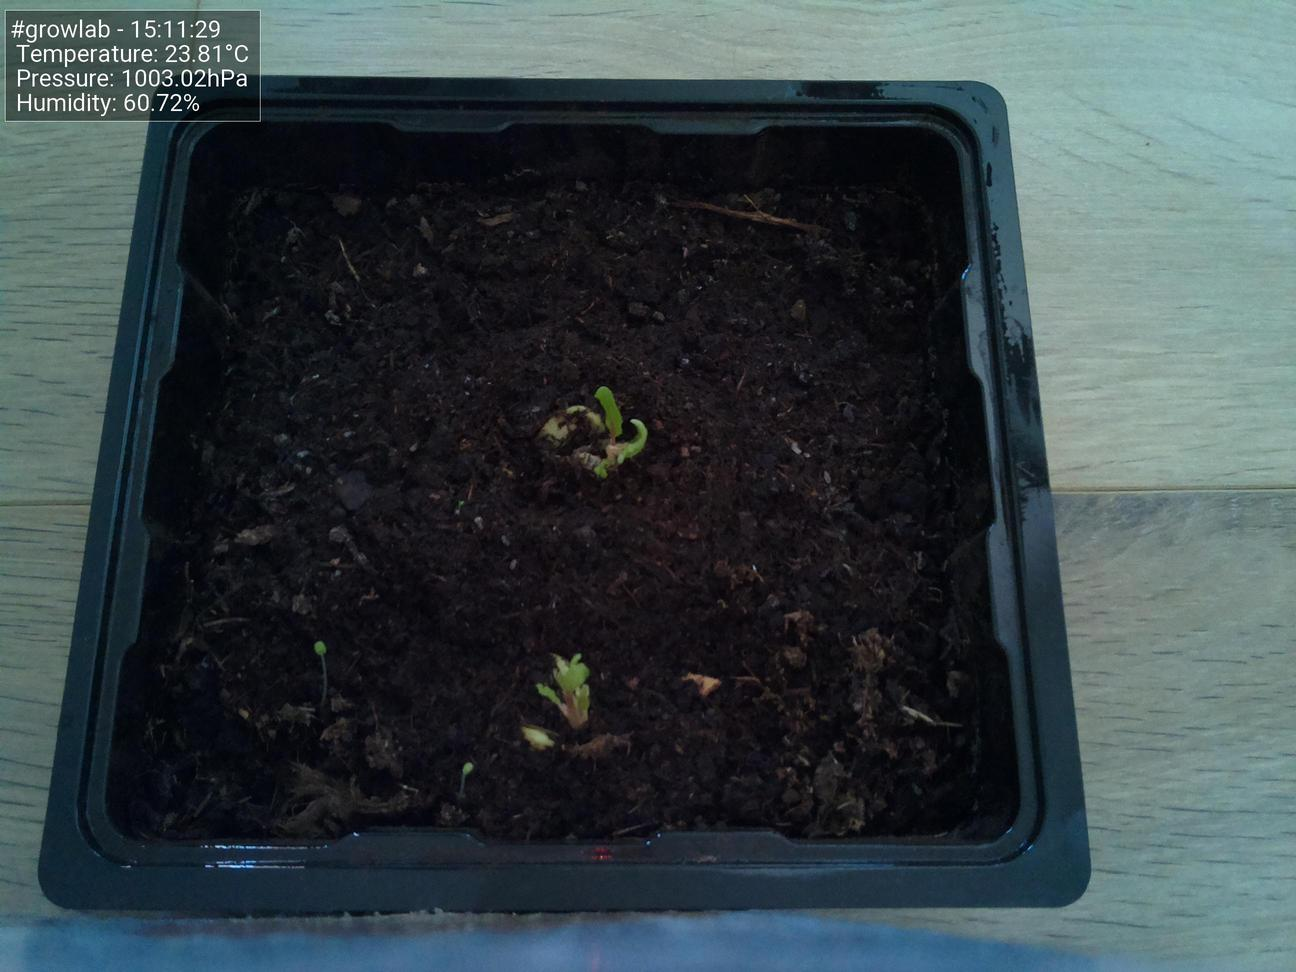
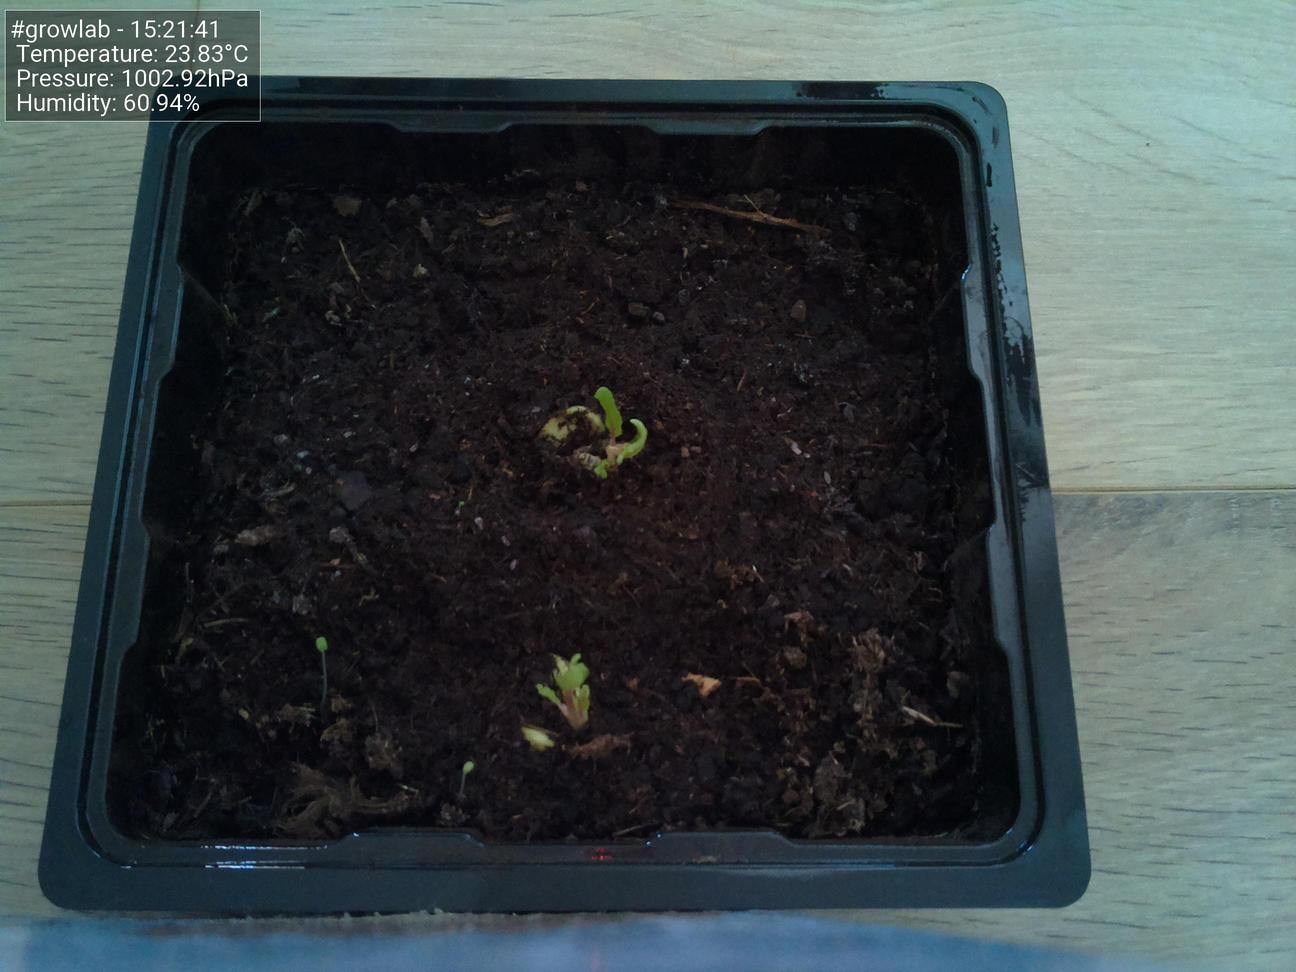
Update images at Sun  6 Jun 15:21:45 CEST 2021

diff --git a/docs/index.html b/docs/index.html
@@ -47,19 +47,19 @@
                         <tbody>
                             <tr>
                                 <td>Time</td>
-                                <td>15:11:29</td>
+                                <td>15:21:41</td>
                             </tr>
                             <tr>
                                 <td>Temperature</td>
-                                <td>23.81°C</td>
+                                <td>23.83°C</td>
                             </tr>
                             <tr>
                                 <td>Humidity</td>
-                                <td>60.72%</td>
+                                <td>60.94%</td>
                             </tr>
                             <tr>
                                 <td>Pressure</td>
-                                <td>1003.02hPa</td>
+                                <td>1002.92hPa</td>
                             </tr>
                         </tbody>
                     </table>
@@ -67,7 +67,7 @@
 
                 <h5>Latest image</h5>
                 <div style="width: 85%;">
-                            <img class="figure-img img-fluid rounded" src="./preview.jpg?uid=1622985093.587289">
+                            <img class="figure-img img-fluid rounded" src="./preview.jpg?uid=1622985705.2441099">
                 </div>
             </div>
         </div>
